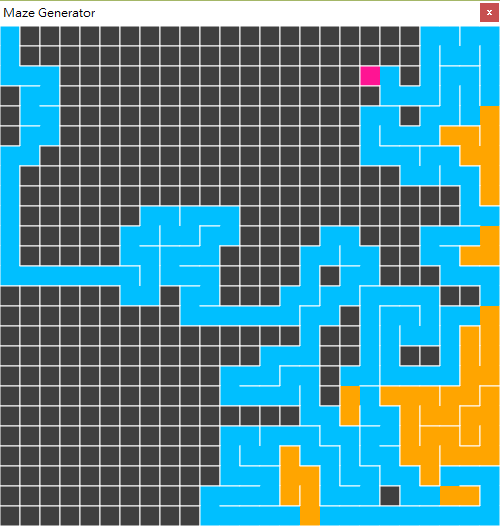
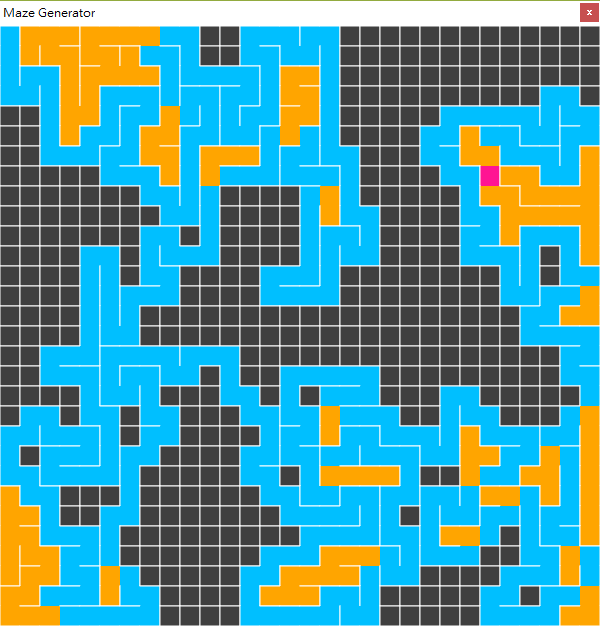
add A* algorithm

diff --git a/src/application/MazePane.java b/src/application/MazePane.java
@@ -1,27 +1,42 @@
 package application;
 
 import java.util.ArrayList;
+import java.util.HashMap;
 import java.util.Random;
 import java.util.Stack;
 
 import javafx.scene.layout.Pane;
-import javafx.scene.paint.Color;
+import javafx.scene.shape.Line;
 
 public class MazePane extends Pane {
 	private int rows;
 	private int cols;
-	private int startRow = 0;
-	private int startCol = 0;
+	private final int startRow = 0;
+	private final int startCol = 0;
+	private final int endRow;
+	private final int endCol;
 	private Cell[][] grid;
 	private Cell currentCell;
 
 	private Stack<Cell> stack = new Stack<>();
 	
-	public boolean finish = false;
+	// The set of cells already evaluated
+	private ArrayList<Cell> closeSet = new ArrayList<>();
+	// The set of currently discovered cells that are not evaluated yet.
+	private ArrayList<Cell> openSet = new ArrayList<>();
+	// cell -> the cell which came from
+	private HashMap<Cell, Cell> previousCellMap = new HashMap<>();
+	
+	private ArrayList<Line> linePath = new ArrayList<>();
+	
+	public boolean finishGeneration = false;
+	public boolean finishSerch = false;
 
 	public MazePane(int width, int height, int cellSize) {
 		rows = height / cellSize;
 		cols = width / cellSize;
+		endRow = rows - 1;
+		endCol = cols - 1;
 		grid = new Cell[rows][cols];
 		
 		for(int i = 0; i < rows; i++) {
@@ -32,9 +47,12 @@ public class MazePane extends Pane {
 		}
 		
 		currentCell = grid[startRow][startCol];
+		
+		openSet.add(grid[startRow][startCol]);
 	}
-	
-	public void generateMaze() {		
+
+	// ------------ maze generation algorithm ------------
+	public void generateMaze() {
 		currentCell.visited = true;
 		currentCell.setFloorColor(MyColor.visitedColor);
 		
@@ -60,7 +78,7 @@ public class MazePane extends Pane {
 			currentCell.popped = true;
 			currentCell.setFloorColor(MyColor.currnetColor);
 		} else if(stack.isEmpty()) {
-			finish = true;
+			finishGeneration = true;
 			for(Cell[] cArr : grid) {
 				for(Cell c : cArr) {
 					c.setFloorColor(MyColor.floorColor);
@@ -118,11 +136,187 @@ public class MazePane extends Pane {
 		return null;
 	}
 	
-	private boolean isInsideTheGrid(int i, int j) {
-		if(0 <= i && i < rows && 0 <= j && j < cols)
+	private boolean isInsideTheGrid(int row, int col) {
+		if(0 <= row && row < rows && 0 <= col && col < cols)
 			return true;
 		return false;
 	}
+
+	// ------------ A* search algorithm ------------
+	public void findPath() {
+		if(!openSet.isEmpty()) {			
+			currentCell = openSet.get(findLowestIndexInOpenSet());
+			
+			/*
+			 * 	Object o
+			 * 	o is actually a pointer to an Object
+			 * 
+			 * 	when list.add(a) , b = list.get(0) if size of list is 1
+			 * 	which mean a and b are both point to the same address
+			 * 
+			 * 	## so a.equal(b) and a == b are both return true
+			 * 
+			 * 	see the answer with the second highest score:
+			 * 	https://stackoverflow.com/questions/40480/is-java-pass-by-reference-or-pass-by-value
+			 */
+			if(currentCell == grid[endRow][endCol]) {  
+				finishSerch = true;
+			}
+			
+			openSet.remove(currentCell);
+			closeSet.add(currentCell);
+			
+			ArrayList<Cell> neighborList = getNeighborList(currentCell);
+			
+			for(Cell neighbor : neighborList) {
+				if(!closeSet.contains(neighbor)) {
+					// the neighbor which is not already evaluated
+					int tempG = currentCell.gScore + 1;
+					
+					if(openSet.contains(neighbor)) {
+						if(tempG < neighbor.gScore) {
+							neighbor.gScore = tempG;
+						}
+					} else {
+						// Discover a new cell
+						neighbor.gScore = tempG;
+						openSet.add(neighbor);
+					}
+					
+					previousCellMap.put(neighbor, currentCell); // record which cell came from
+					neighbor.hScore = heuristic(neighbor);
+					neighbor.fScore = neighbor.gScore + neighbor.hScore;
+				}
+			}
+		} else {
+			// no solution
+		}
+		
+		drawAStarSolution();
+	}
+	
+	private int findLowestIndexInOpenSet() {
+		int lowestIndex = 0;
+		for(int i = 0; i < openSet.size(); i++) {
+			if(openSet.get(i).fScore < openSet.get(lowestIndex).fScore) {
+				lowestIndex = i;
+			}
+		}
+		return lowestIndex;
+	}
+	
+	private int heuristic(Cell c) {
+		// Manhattan distance between c and end
+		return Math.abs(c.getPos().row - endRow) + Math.abs(c.getPos().col - endCol);
+	}
+	
+	private ArrayList<Cell> getNeighborList(Cell c) {
+		ArrayList<Cell> neightborList = new ArrayList<>();
+		
+		for(int i = 0; i < c.hasWalls.length; i++) {
+			if(!c.hasWalls[i]) {
+				Cell neightbor = getNeighbor(c, i);
+				if(neightbor != null)
+					neightborList.add(neightbor);
+			}
+		}
+		
+		return neightborList;
+	}
+	
+	private Cell getNeighbor(Cell c, int direction) {
+		Point pos = c.getPos();		
+		int row, col;
+		
+		if(direction == DirectionType.TOP) {
+			row = pos.row - 1;
+			col = pos.col;
+		} else if(direction == DirectionType.RIGHT) {
+			row = pos.row;
+			col = pos.col + 1;
+		} else if(direction == DirectionType.BOTTOM) {
+			row = pos.row + 1;
+			col = pos.col;
+		} else { // left
+			row = pos.row;
+			col = pos.col - 1;
+		}
+		
+		return isInsideTheGrid(row, col) ? grid[row][col] : null;
+	}
+	
+	private void drawAStarSolution() {
+		for(Cell c : openSet) {
+			c.setFloorColor(MyColor.openSetColor);
+		}
+
+		for(Cell c : closeSet) {
+			c.setFloorColor(MyColor.closeSetColor);
+		}
+		
+		currentCell.setFloorColor(MyColor.currnetColor);
+		
+		drawLinePath();
+	}
+	
+	private void drawLinePath() {
+		this.getChildren().removeAll(linePath);
+		linePath.clear();
+		
+		// use all cells in the path to draw lines
+		for(Cell c : getCellPath()) {
+			c.setFloorColor(MyColor.floorColor);
+			
+			Cell cPre = previousCellMap.get(c);
+			if(cPre == null)
+				break;
+			Line l = getLineBetweenCells(c, cPre);
+			linePath.add(l);
+			this.getChildren().add(l);
+		}
+	}
+	
+	private ArrayList<Cell> getCellPath() {
+		// cells in the list which are all in the path
+		ArrayList<Cell> cellPath = new ArrayList<>();
+		
+		Cell c = currentCell;
+		Cell cPre = previousCellMap.get(c);
+		
+		cellPath.add(c);
+		while(cPre != null) {
+			cPre = previousCellMap.get(c);
+			cellPath.add(cPre);
+			c = cPre;
+		}
+		return cellPath;
+	}
+	
+	private Line getLineBetweenCells(Cell c1, Cell c2) {
+		int s = c1.size / 2;
+		
+		int c1X = c1.getPos().x + s;
+		int c2X = c2.getPos().x + s;
+		int c1Y = c1.getPos().y + s;
+		int c2Y = c2.getPos().y + s;
+		
+		Line l;
+		// avoid overlaps 
+		if(c1X > c2X) {
+			l = new Line(c1X, c1Y, c2X + 1, c2Y);
+		} else if(c1X < c2X) {
+			l = new Line(c1X, c1Y, c2X - 1, c2Y);
+		} else if(c1Y > c2Y) {
+			l = new Line(c1X, c1Y, c2X, c2Y + 1);
+		} else {
+			l = new Line(c1X, c1Y, c2X, c2Y - 1);
+		}
+		
+		l.setStroke(MyColor.pathColor);
+		return l;
+	}
+	
+	// ------------------------
 	
 	public Cell[][] getGrid() {
 		return grid;

diff --git a/src/application/Main.java b/src/application/Main.java
@@ -10,8 +10,8 @@ import javafx.scene.Scene;
 
 
 public class Main extends Application {
-	private static final int width = 500;
-	private static final int height = 500;
+	private static final int width = 600;
+	private static final int height = 600;
 	private static final int cellSize = 20;
 	private static final int speed = 100; // how many steps move in one second
 	
@@ -35,10 +35,11 @@ public class Main extends Application {
 		AnimationTimer timer = new AnimationTimer() {
 			@Override
 			public void handle(long arg0) { 
-				if(!mazePane.finish) {
+				if(!mazePane.finishGeneration) {
 					mazePane.generateMaze();
 				} else {
-					
+					if(!mazePane.finishSerch)
+						mazePane.findPath();
 				}
 				
 				try {

diff --git a/src/application/Cell.java b/src/application/Cell.java
@@ -6,10 +6,9 @@ import javafx.scene.Group;
 import javafx.scene.paint.Color;
 import javafx.scene.shape.Line;
 import javafx.scene.shape.Rectangle;
-import javafx.scene.text.Text;
 
 public class Cell extends Group {
-	private final int size;
+	public final int size;
 	private Point pos;
 	private Rectangle floor;
 	
@@ -18,6 +17,11 @@ public class Cell extends Group {
 
 	private ArrayList<Line> walls = new ArrayList<>();
 	public boolean[] hasWalls = {true, true, true, true}; // top right bottom left
+
+	// A* algorithm
+	public int fScore = 0;
+	public int gScore = 0;
+	public int hScore = 0;
 	
 	public Cell(int row, int col, int size) {
 		pos = new Point(row, col, col * size, row * size);

diff --git a/src/application/MyColor.java b/src/application/MyColor.java
@@ -5,7 +5,12 @@ import javafx.scene.paint.Color;
 public class MyColor {
 	public static Color floorColor = new Color(0.25, 0.25, 0.25, 1);
 	public static Color wallColor = Color.WHITE;
+	
 	public static Color currnetColor = Color.DEEPPINK;
 	public static Color visitedColor = Color.DEEPSKYBLUE;
 	public static Color backtrackColor = Color.ORANGE;
+
+	public static Color openSetColor = Color.AQUA;
+	public static Color closeSetColor = Color.LIGHTCORAL;
+	public static Color pathColor = Color.YELLOW;
 }

diff --git a/README.md b/README.md
@@ -1,6 +1,13 @@
-# Maze Generator
+## Maze Generator
 
-Implementation of [maze generation algorithm](https://en.wikipedia.org/wiki/Maze_generation_algorithm#Recursive_backtracker) in javaFX
+Implementation of [maze generation algorithm](https://en.wikipedia.org/wiki/Maze_generation_algorithm#Recursive_backtracker) in javaFX.
+
+## Maze solver
+Solve the maze by [A* search algorithm](https://en.wikipedia.org/wiki/A*_search_algorithm).
+
+Here is a introduction of A* search algorithm:
+
+[![video](https://i.ytimg.com/vi/pKnV6ViDpAI/hqdefault.jpg?sqp=-oaymwEYCKgBEF5IVfKriqkDCwgBFQAAiEIYAXAB&rs=AOn4CLAkhKHdMlpVvLGdYj7B8BGK0eFvsg)](https://youtu.be/pKnV6ViDpAI?t=201)
 
 ## Screenshots
 ![screenshot](https://raw.githubusercontent.com/Ming-Chyuan/Maze-Generator/master/img/screenshot1.png)
